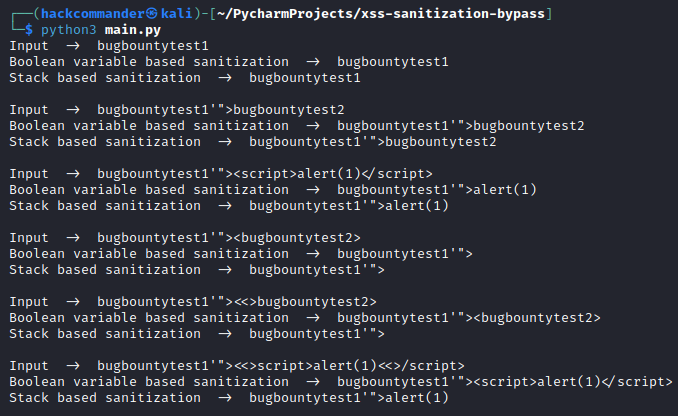
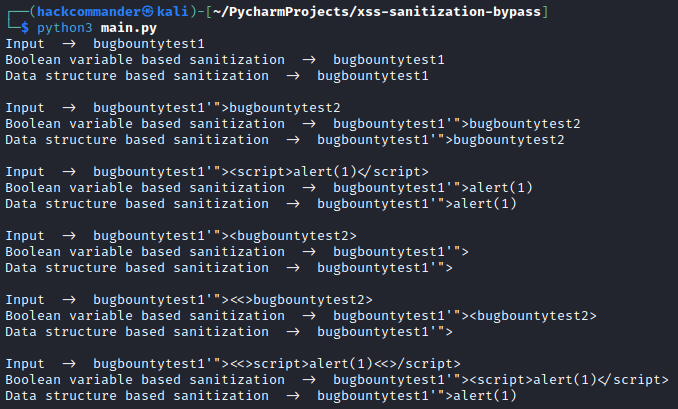
Added the lessons learned section and made some corrections in the post about reflected XSS bypassing an HTML tag removal sanitization.

diff --git a/_site/bug-bounty-1/index.html b/_site/bug-bounty-1/index.html
@@ -331,13 +331,21 @@
 <a href="#section-id-3">3. Vulnerability exploitation</a>
     <ul>
       <li><a href="#section-id-3-1">3.1. Steps of exploitation</a></li>
-      <li><a href="#section-id-3-2">3.2. Why does the payload work?</a></li>
+      <li>
+<a href="#section-id-3-2">3.2. Why does the payload work?</a>
+        <ul>
+          <li><a href="#section-id-3-2-1">3.2.1. Sanitization algorithm based on a boolean variable</a></li>
+          <li><a href="#section-id-3-2-2">3.2.2. Sanitization algorithm based on a data structure</a></li>
+          <li><a href="#section-id-3-2-3">3.2.3. Code of the algorithms</a></li>
+        </ul>
+      </li>
     </ul>
   </li>
   <li><a href="#section-id-4">4. Report resolution</a></li>
+  <li><a href="#section-id-5">5. Lessons learned</a></li>
 </ul>
 
-<p style="text-align:center;"><img src="/assets/images/general/bug-bounty.png" alt="Bug Bounty"></p>
+<p><img src="/assets/images/general/bug-bounty.png" alt=""></p>
 
 <blockquote>
   <p><img class="emoji" title=":warning:" alt=":warning:" src="https://github.githubassets.com/images/icons/emoji/unicode/26a0.png" height="20" width="20"> <span style="color:red">This bug was reported in a private bug bounty program in which it is not allowed to publish the vulnerabilities found. So this is a partial disclosure, only the essential technical details are exposed.</span></p>
@@ -473,11 +481,23 @@ alert(1)
 
 <p>After exploiting the reflected XSS, I wondered what kind of sanitization algorithm could lead to the above behavior. I am not a professional programmer but I have some scripting knowledge so I know that there could be different algorithms to try to achieve the above sanitization, some of them unsafe.</p>
 
+<div id="section-id-3-2-1"></div>
+
+<h3 id="321-sanitization-algorithm-based-on-a-boolean-variable">3.2.1. Sanitization algorithm based on a boolean variable</h3>
+
 <p>An insecure algorithm to try to achieve the above sanitization is to use a boolean variable to keep track of whether a &lt; character has been encountered or not. This variable will be set to true when a &lt; character has been encountered and false when no &lt; character has been encountered or when a &gt; character has been encountered that closes a &lt; character. When the variable changes from true to false the algorithm removes all the content between the &lt; and &gt; characters, including both.</p>
 
-<p>The flaw of this algorithm is that it does not take into account that &lt; and &gt; characters can be nested, so the boolean variable will be true whether 1 or 10000 &lt; characters are encountered and a single &gt; will be enough to set the variable to false, even if there are other &lt; characters without closing. This is what I call a boolean variable based sanitization algorithm.</p>
+<p>The flaw of this algorithm is that it does not take into account that &lt; and &gt; characters can be nested, so the boolean variable will be true whether 1 or 10000 &lt; characters are encountered and a single &gt; will be enough to set the variable to false, even if there are other &lt; characters without closing. This is a sanitization algorithm based on a boolean variable.</p>
 
-<p>One way to avoid this flaw is to use a data structure, such as stack, to keep track of all unclosed &lt; characters. This is what I call a stack based sanitization algorithm.</p>
+<div id="section-id-3-2-2"></div>
+
+<h3 id="322-sanitization-algorithm-based-on-a-data-structure">3.2.2. Sanitization algorithm based on a data structure</h3>
+
+<p>One way to avoid this flaw is to use a data structure to keep track of all unclosed &lt; characters. The most suitable data structure for this task is a <strong>stack</strong> . The most suitable data structure to perform this task is a <strong>stack</strong> since the sanitization will be performed from the last &lt; character encountered (the one at the head of the stack) to the current &gt; character. This is a sanitization algorithm based on a data structure.</p>
+
+<div id="section-id-3-2-3"></div>
+
+<h3 id="323-code-of-the-algorithms">3.2.3. Code of the algorithms</h3>
 
 <p>The backend was designed in PHP but I have implemented both algorithms in python to show in practice what I mean by both algorithms</p>
 
@@ -485,7 +505,7 @@ alert(1)
 </span><span class="k">def</span> <span class="nf">remove_substring</span><span class="p">(</span><span class="nb">input</span><span class="p">,</span> <span class="n">i</span><span class="p">,</span> <span class="n">j</span><span class="p">):</span>
     <span class="k">return</span> <span class="nb">input</span><span class="p">[</span><span class="mi">0</span><span class="p">:</span><span class="n">i</span><span class="p">]</span> <span class="o">+</span> <span class="nb">input</span><span class="p">[</span><span class="n">j</span><span class="o">+</span><span class="mi">1</span><span class="p">:</span><span class="nb">len</span><span class="p">(</span><span class="nb">input</span><span class="p">)]</span>
 
-<span class="c1"># Get the boolean variable based sanitization of the input
+<span class="c1"># Get the sanitization of the input using an algorithm based on a boolean variable
 </span><span class="k">def</span> <span class="nf">get_boolean_variable_based_sanitization</span><span class="p">(</span><span class="nb">input</span><span class="p">):</span>
     <span class="n">i</span> <span class="o">=</span> <span class="mi">0</span> <span class="c1"># Index of the input string
 </span>    <span class="n">less_than_char_index</span> <span class="o">=</span> <span class="o">-</span><span class="mi">1</span> <span class="c1"># Index of the last &lt; found
@@ -502,8 +522,8 @@ alert(1)
             <span class="n">i</span> <span class="o">+=</span> <span class="mi">1</span>
     <span class="k">return</span> <span class="nb">input</span>
 
-<span class="c1"># Get the stack based sanitization of the input
-</span><span class="k">def</span> <span class="nf">get_stack_based_sanitization</span><span class="p">(</span><span class="nb">input</span><span class="p">):</span>
+<span class="c1"># Get the sanitization of the input using an algorithm based on a data structure
+</span><span class="k">def</span> <span class="nf">get_data_structure_based_sanitization</span><span class="p">(</span><span class="nb">input</span><span class="p">):</span>
     <span class="kn">from</span> <span class="nn">queue</span> <span class="kn">import</span> <span class="n">LifoQueue</span>
     <span class="n">i</span> <span class="o">=</span> <span class="mi">0</span> <span class="c1"># Index of the input string
 </span>    <span class="n">less_than_char_stack</span> <span class="o">=</span> <span class="n">LifoQueue</span><span class="p">()</span> <span class="c1"># Stack that keeps track of all &lt; encountered
@@ -530,11 +550,11 @@ alert(1)
     <span class="k">for</span> <span class="nb">input</span> <span class="ow">in</span> <span class="n">input_list</span><span class="p">:</span>
         <span class="c1"># Apply the sanitizations
 </span>        <span class="n">boolean_variable_based_sanitization</span> <span class="o">=</span> <span class="n">get_boolean_variable_based_sanitization</span><span class="p">(</span><span class="nb">input</span><span class="p">)</span>
-        <span class="n">stack_based_sanitization</span> <span class="o">=</span> <span class="n">get_stack_based_sanitization</span><span class="p">(</span><span class="nb">input</span><span class="p">)</span>
+        <span class="n">data_structure_based_sanitization</span> <span class="o">=</span> <span class="n">get_data_structure_based_sanitization</span><span class="p">(</span><span class="nb">input</span><span class="p">)</span>
         <span class="c1"># Store the output of the sanitizations
 </span>        <span class="n">output</span> <span class="o">=</span> <span class="n">output</span> <span class="o">+</span> <span class="s">"Input  -&gt;  "</span> <span class="o">+</span> <span class="nb">input</span> <span class="o">+</span> <span class="s">"</span><span class="se">\n</span><span class="s">"</span>
         <span class="n">output</span> <span class="o">=</span> <span class="n">output</span> <span class="o">+</span> <span class="s">"Boolean variable based sanitization  -&gt;  "</span> <span class="o">+</span> <span class="n">boolean_variable_based_sanitization</span> <span class="o">+</span> <span class="s">"</span><span class="se">\n</span><span class="s">"</span>
-        <span class="n">output</span> <span class="o">=</span> <span class="n">output</span> <span class="o">+</span> <span class="s">"Stack based sanitization  -&gt;  "</span> <span class="o">+</span> <span class="n">stack_based_sanitization</span> <span class="o">+</span> <span class="mi">2</span><span class="o">*</span><span class="s">"</span><span class="se">\n</span><span class="s">"</span>
+        <span class="n">output</span> <span class="o">=</span> <span class="n">output</span> <span class="o">+</span> <span class="s">"Data structure based sanitization  -&gt;  "</span> <span class="o">+</span> <span class="n">data_structure_based_sanitization</span> <span class="o">+</span> <span class="mi">2</span><span class="o">*</span><span class="s">"</span><span class="se">\n</span><span class="s">"</span>
 
     <span class="c1"># Print the results
 </span>    <span class="k">print</span><span class="p">(</span><span class="n">output</span><span class="p">)</span>
@@ -559,6 +579,15 @@ alert(1)
   <li><strong>Vulnerability severity: Medium</strong></li>
 </ul>
 
+<div id="section-id-5"></div>
+
+<h2 id="5-lessons-learned">5. Lessons learned</h2>
+
+<ul>
+  <li>Gau and kxss are very useful tools for bug bounty. They are very easy to install and run and, in return, can give several URLs potentially vulnerable to XSS.</li>
+  <li>Although a sanitization algorithm may seem safe at first, it may not be. Given a sanitization like the one we have seen in this post it is a good exercise to think about what algorithms you would have used to perform such sanitization because some of them may be the one being used on the web. If any of the algorithms you have thought of is vulnerable, the payloads to exploit these vulnerabilities are candidate payloads to use against the web.</li>
+  <li>Bug bounty is not a CTF, is the jungle. Many times even if a vulnerability is present, you will have to fight with WAFs and sanitizations so you need to be prepared to think outside the box.</li>
+</ul>
 
         
       </section>

diff --git a/_site/assets/js/lunr/lunr-store.js b/_site/assets/js/lunr/lunr-store.js
@@ -5,7 +5,7 @@ var store = [{
         "url": "https://hackcommander.io/ejpt-certification-review/",
         "teaser":"https://hackcommander.io/assets/images/2022-09-01-ejpt-certification-review/ejpt-logo.png"},{
         "title": "Reflected XSS bypassing HTML tag removal sanitization",
-        "excerpt":"Summary 1. Asset discovery 2. Vulnerability discovery 3. Vulnerability exploitation 3.1. Steps of exploitation 3.2. Why does the payload work? 4. Report resolution :warning: This bug was reported in a private bug bounty program in which it is not allowed to publish the vulnerabilities found. So this is a partial...","categories": ["Bug Bounty"],
+        "excerpt":"Summary 1. Asset discovery 2. Vulnerability discovery 3. Vulnerability exploitation 3.1. Steps of exploitation 3.2. Why does the payload work? 3.2.1. Sanitization algorithm based on a boolean variable 3.2.2. Sanitization algorithm based on a data structure 3.2.3. Code of the algorithms 4. Report resolution 5. Lessons learned :warning: This bug...","categories": ["Bug Bounty"],
         "tags": ["web pentesting","OSINT","amass","httpx","gau","kxss","XSS","python","bypass","sanitization"],
         "url": "https://hackcommander.io/bug-bounty-1/",
         "teaser":"https://hackcommander.io/assets/images/general/bug-bounty.png"},{

diff --git a/_site/bug-bounty-2/index.html b/_site/bug-bounty-2/index.html
@@ -341,8 +341,6 @@
 
 <p><img src="/assets/images/general/bug-bounty.png" alt=""></p>
 
-<p style="text-align:center;"><img src="/assets/images/general/bug-bounty.png" alt="Bug Bounty"></p>
-
 <blockquote>
   <p><img class="emoji" title=":warning:" alt=":warning:" src="https://github.githubassets.com/images/icons/emoji/unicode/26a0.png" height="20" width="20"> <span style="color:red">This bug was reported in a private bug bounty program in which it is not allowed to publish the vulnerabilities found. So this is a partial disclosure, only the essential technical details are exposed.</span></p>
 </blockquote>

diff --git a/_posts/2022-09-20-bug-bounty-1.md b/_posts/2022-09-20-bug-bounty-1.md
@@ -30,7 +30,11 @@ tags:
 - [3. Vulnerability exploitation](#section-id-3)
   - [3.1. Steps of exploitation](#section-id-3-1)
   - [3.2. Why does the payload work?](#section-id-3-2)
+    - [3.2.1. Sanitization algorithm based on a boolean variable](#section-id-3-2-1)
+    - [3.2.2. Sanitization algorithm based on a data structure](#section-id-3-2-2)
+    - [3.2.3. Code of the algorithms](#section-id-3-2-3)
 - [4. Report resolution](#section-id-4)
+- [5. Lessons learned](#section-id-5)
 
 ![](/assets/images/general/bug-bounty.png)
 
@@ -78,7 +82,7 @@ The vulnerable parameter was the typical parameter used to make queries on a web
 <div id='section-id-3-1'/>
 ## 3.1. Steps of exploitation
 
-Unfortunately I don't have any screenshot of the exploitation of this XSS except the screenshot that shows the execution of the XSS, and the vulnerability is already patched. I don't have the Burpsuite screenshot either because at that time I wasn't even using Burpsuite, I was just starting in pentesting and playing with the web functionalities. Therefore the tool I used to test the XSS was the dev tools of the browser. I know, it's crazy :laughing:
+Unfortunately I don't have any screenshot of the exploitation of this XSS except the screenshot that shows the execution of the XSS, and the vulnerability is already patched. I don't have the Burpsuite screenshot either because at that time I wasn't even using Burpsuite, I was just starting in pentesting and playing with the website functionalities. Therefore the tool I used to test the XSS was the dev tools of the browser. I know, it's crazy :laughing:
 
 Suppose that the URL returned by gau + kxss is as follows
 
@@ -175,11 +179,20 @@ and the reflected XSS was reproduced as you can see in the following screenshot
 
 After exploiting the reflected XSS, I wondered what kind of sanitization algorithm could lead to the above behavior. I am not a professional programmer but I have some scripting knowledge so I know that there could be different algorithms to try to achieve the above sanitization, some of them unsafe.
 
+<div id='section-id-3-2-1'/>
+### 3.2.1. Sanitization algorithm based on a boolean variable
+
 An insecure algorithm to try to achieve the above sanitization is to use a boolean variable to keep track of whether a < character has been encountered or not. This variable will be set to true when a < character has been encountered and false when no < character has been encountered or when a > character has been encountered that closes a < character. When the variable changes from true to false the algorithm removes all the content between the < and > characters, including both.
 
-The flaw of this algorithm is that it does not take into account that < and > characters can be nested, so the boolean variable will be true whether 1 or 10000 < characters are encountered and a single > will be enough to set the variable to false, even if there are other < characters without closing. This is what I call a boolean variable based sanitization algorithm.
+The flaw of this algorithm is that it does not take into account that < and > characters can be nested, so the boolean variable will be true whether 1 or 10000 < characters are encountered and a single > will be enough to set the variable to false, even if there are other < characters without closing. This is a sanitization algorithm based on a boolean variable.
 
-One way to avoid this flaw is to use a data structure, such as stack, to keep track of all unclosed < characters. This is what I call a stack based sanitization algorithm.
+<div id='section-id-3-2-2'/>
+### 3.2.2. Sanitization algorithm based on a data structure
+
+One way to avoid this flaw is to use a data structure to keep track of all unclosed < characters. The most suitable data structure for this task is a **stack** . The most suitable data structure to perform this task is a **stack** since the sanitization will be performed from the last < character encountered (the one at the head of the stack) to the current > character. This is a sanitization algorithm based on a data structure.
+
+<div id='section-id-3-2-3'/>
+### 3.2.3. Code of the algorithms
 
 The backend was designed in PHP but I have implemented both algorithms in python to show in practice what I mean by both algorithms
 
@@ -188,7 +201,7 @@ The backend was designed in PHP but I have implemented both algorithms in python
 def remove_substring(input, i, j):
     return input[0:i] + input[j+1:len(input)]
 
-# Get the boolean variable based sanitization of the input
+# Get the sanitization of the input using an algorithm based on a boolean variable
 def get_boolean_variable_based_sanitization(input):
     i = 0 # Index of the input string
     less_than_char_index = -1 # Index of the last < found
@@ -205,8 +218,8 @@ def get_boolean_variable_based_sanitization(input):
             i += 1
     return input
 
-# Get the stack based sanitization of the input
-def get_stack_based_sanitization(input):
+# Get the sanitization of the input using an algorithm based on a data structure
+def get_data_structure_based_sanitization(input):
     from queue import LifoQueue
     i = 0 # Index of the input string
     less_than_char_stack = LifoQueue() # Stack that keeps track of all < encountered
@@ -233,11 +246,11 @@ if __name__ == '__main__':
     for input in input_list:
         # Apply the sanitizations
         boolean_variable_based_sanitization = get_boolean_variable_based_sanitization(input)
-        stack_based_sanitization = get_stack_based_sanitization(input)
+        data_structure_based_sanitization = get_data_structure_based_sanitization(input)
         # Store the output of the sanitizations
         output = output + "Input  ->  " + input + "\n"
         output = output + "Boolean variable based sanitization  ->  " + boolean_variable_based_sanitization + "\n"
-        output = output + "Stack based sanitization  ->  " + stack_based_sanitization + 2*"\n"
+        output = output + "Data structure based sanitization  ->  " + data_structure_based_sanitization + 2*"\n"
 
     # Print the results
     print(output)
@@ -254,8 +267,14 @@ I don't know if the backend was using the boolean variable based sanitization al
 <div id='section-id-4'/>
 ## 4. Report resolution
 
-The subdomain is an e-commerce asset so they considered it an important asset of the company. An XSS usually is considered a medium severity vulnerability and because I wasn't able to sign up and log in the web, I couldn't demonstrate a high impact such as session hijacking. Therefore, the report was classified as 
+The subdomain is an e-commerce asset so they considered it an important asset of the company. An XSS usually is considered a medium severity vulnerability and because I wasn't able to sign up and log in the website, I couldn't demonstrate a high impact such as session hijacking. Therefore, the report was classified as 
 
 - **Asset criticity: High**
 - **Vulnerability severity: Medium**
 
+<div id='section-id-5'/>
+## 5. Lessons learned
+
+- Gau and kxss are very useful tools for bug bounty. They are very easy to install and run and, in return, can give several URLs potentially vulnerable to XSS.
+- Although a sanitization algorithm may seem safe at first, it may not be. Given a sanitization like the one we have seen in this post it is a good exercise to think about what algorithms you would have used to perform such sanitization because some of them may be the one being used on the website. If any of the algorithms you have thought of is vulnerable, the payloads to exploit these vulnerabilities are candidate payloads to use against the website.
+- Bug bounty is not a CTF, is the jungle. Many times even if a vulnerability is present, you will have to fight with WAFs and sanitizations so you need to be prepared to think outside the box.
